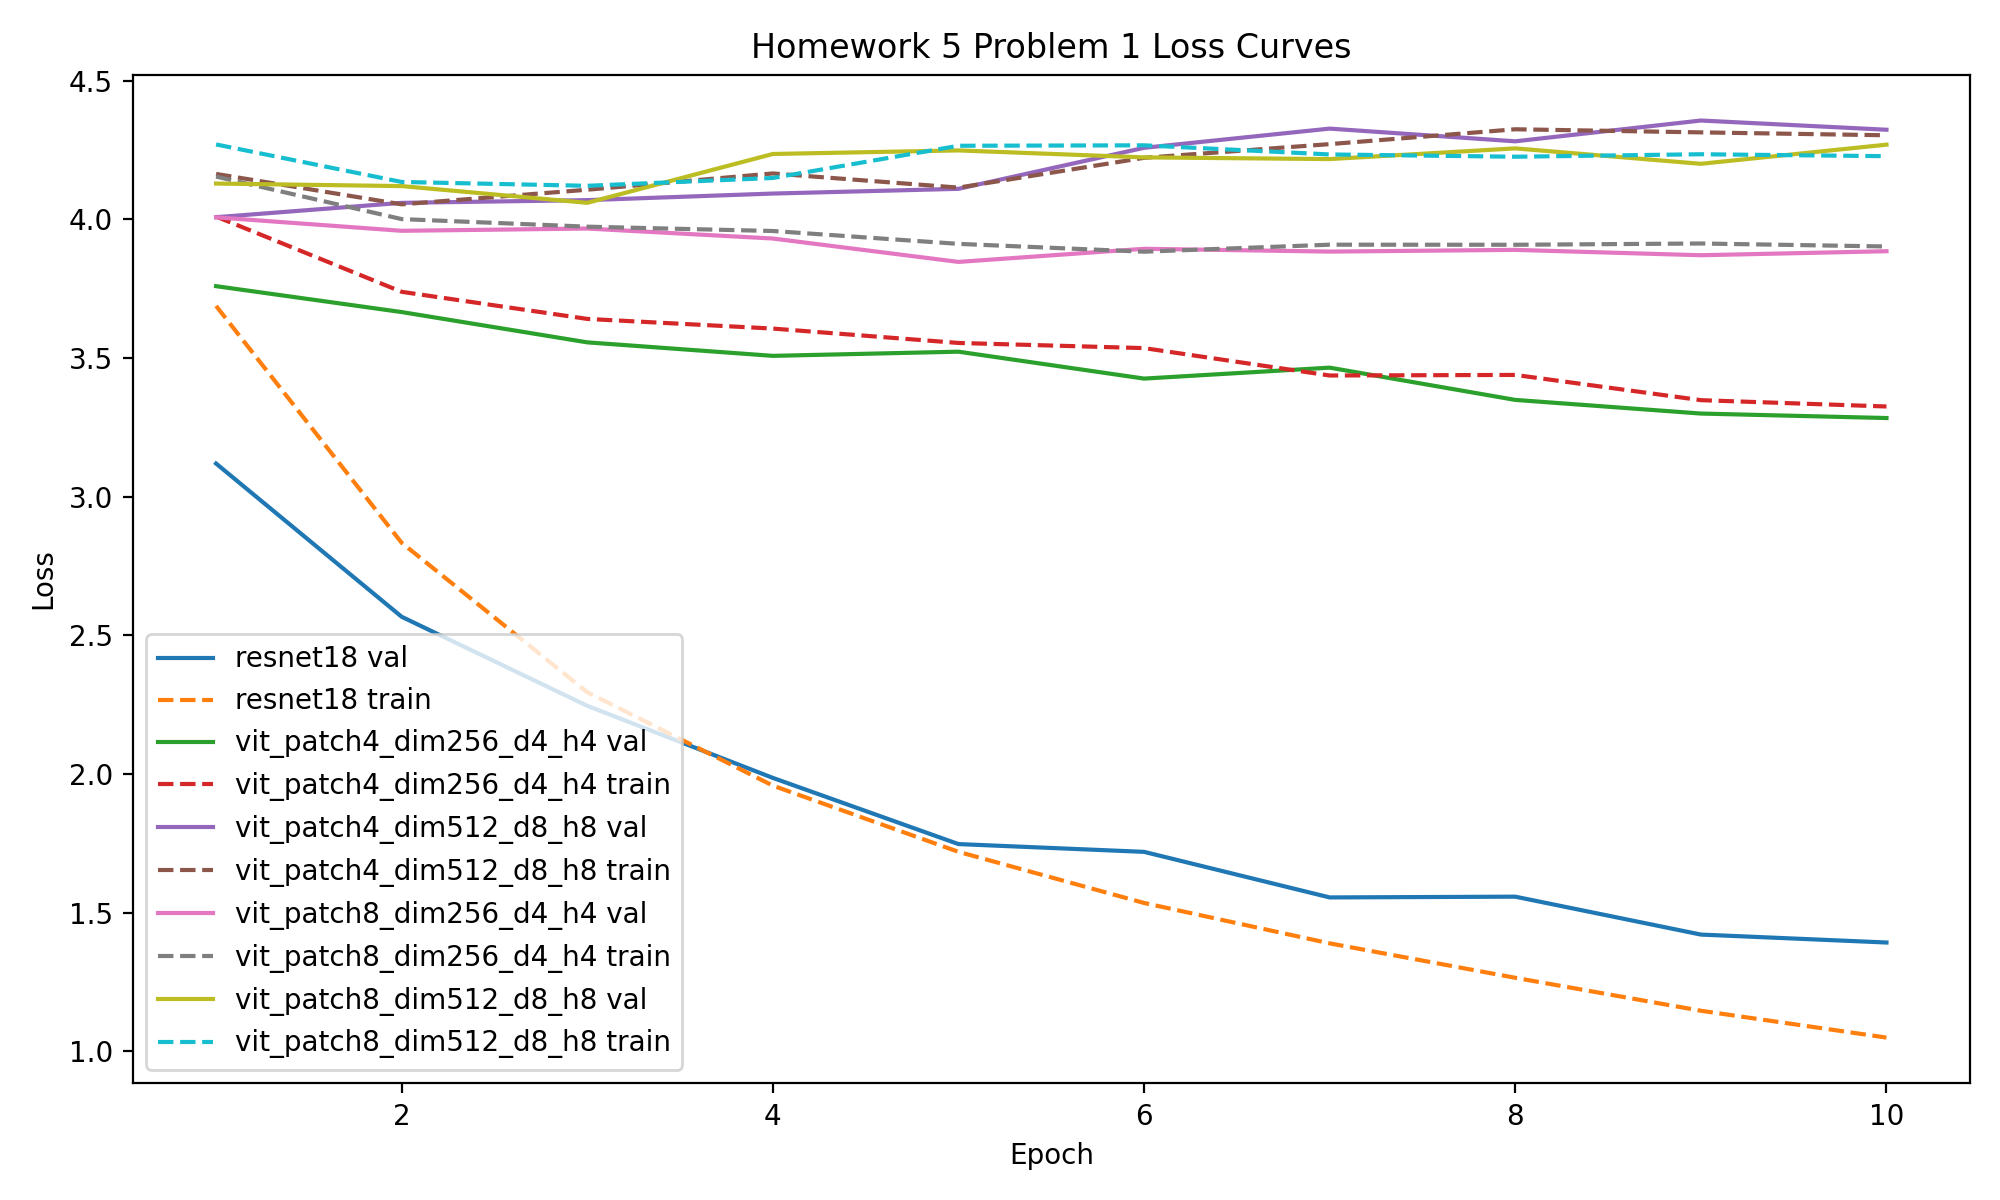
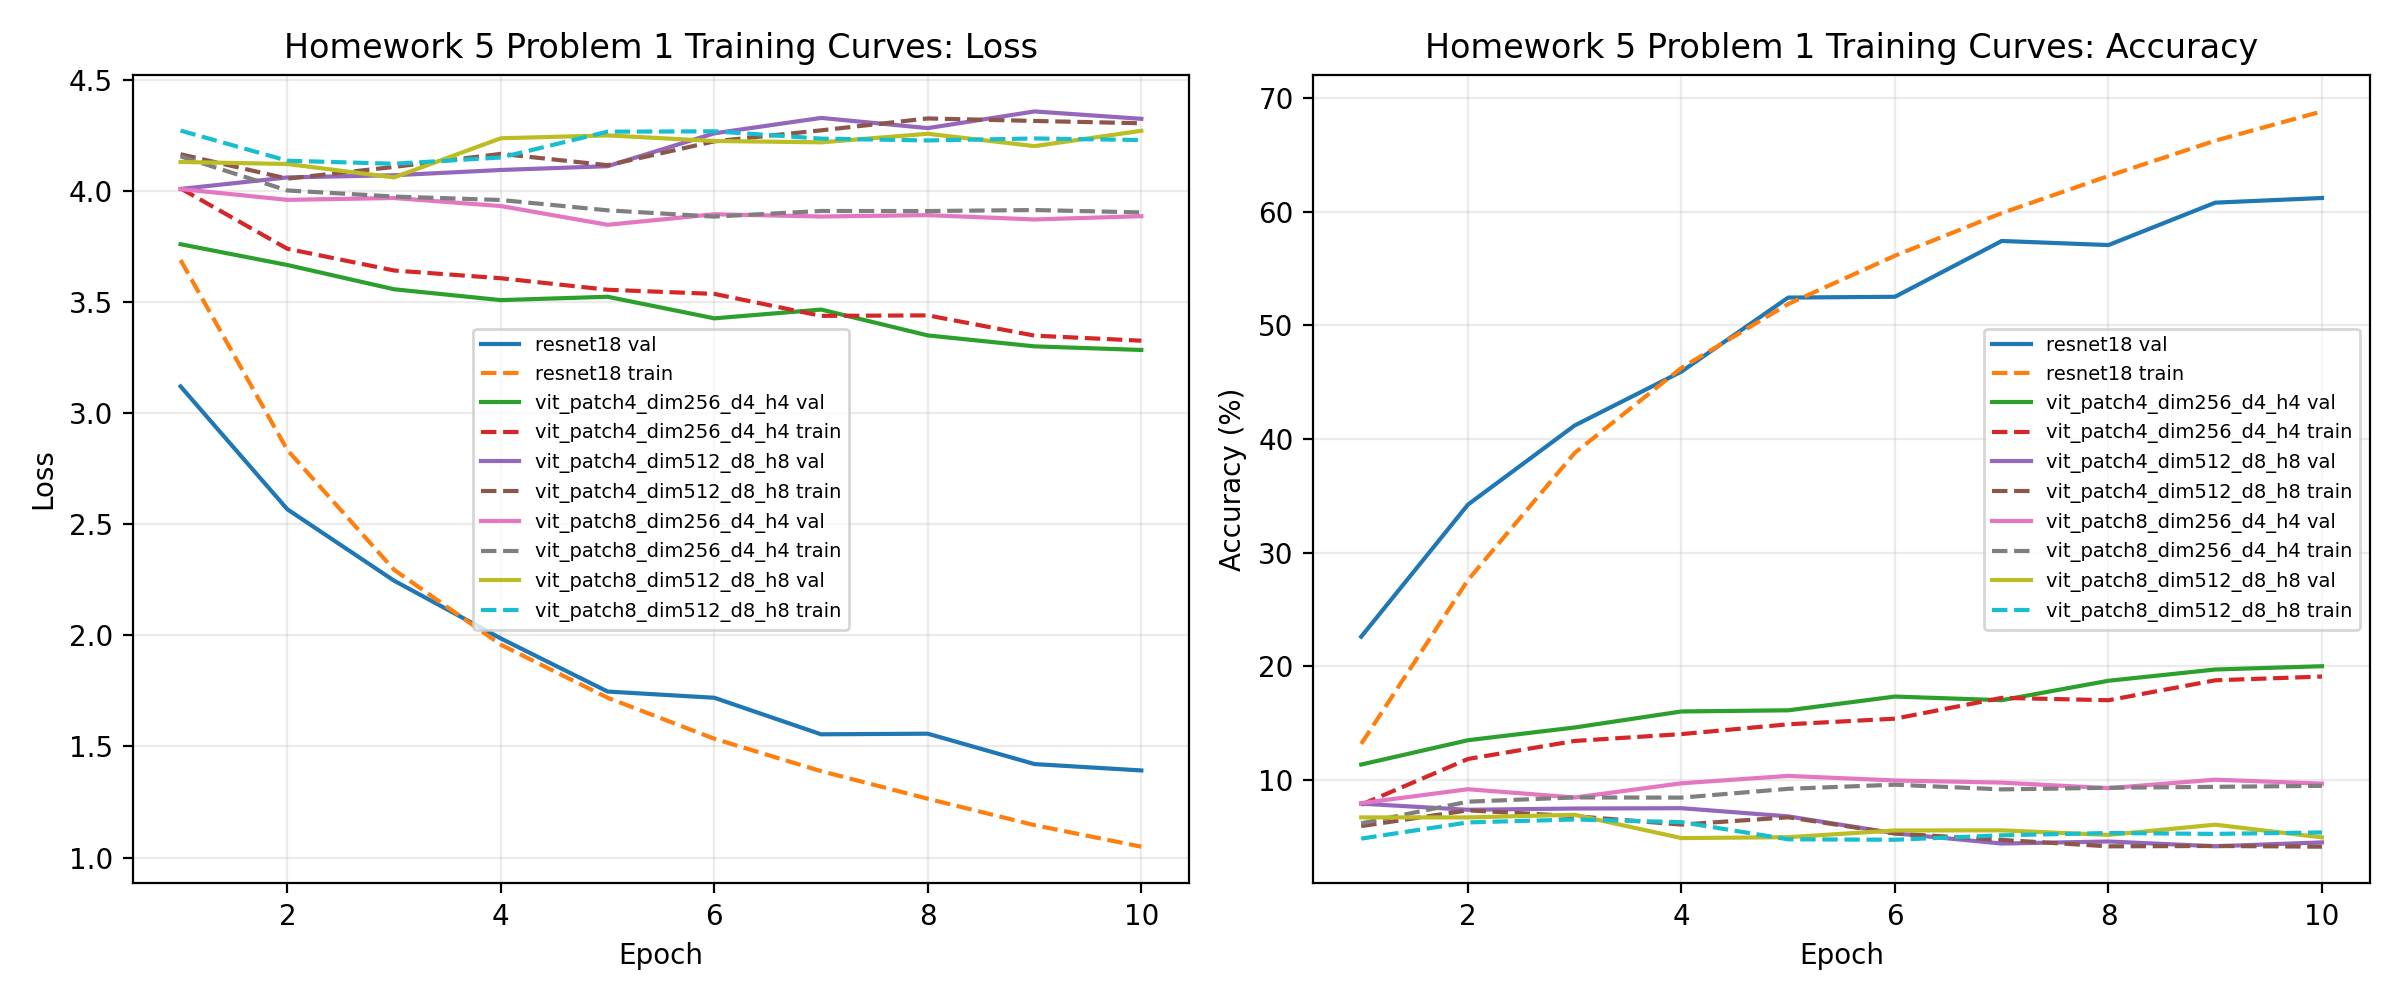
Finalize Homework 5 submission artifacts

diff --git a/report/homework5_report.tex b/report/homework5_report.tex
@@ -25,7 +25,7 @@ Both problems use CIFAR-100 through \texttt{torchvision.datasets.CIFAR100}. Trai
 
 The scripts select CUDA when available and otherwise run on CPU. The completed CSV summaries record CUDA for all Problem 1 runs and all Problem 2 runs. The final Problem 2 experiments were run with approved GPU access on an NVIDIA GeForce RTX 4070. Package versions used in the current environment were: \texttt{torch 2.12.0+cu130}, \texttt{torchvision 0.27.0+cu130}, \texttt{transformers 5.14.1}, \texttt{pandas 2.2.3}, \texttt{numpy 2.2.6}, and \texttt{matplotlib 3.10.9}.
 
-Important status note: Problem 1 has 10-epoch results for all planned rows. Problem 2 has 5-epoch results for all planned rows.
+Important status note: Problem 1 has 10-epoch results for all planned rows. Problem 2 has 5-epoch results for all planned rows. Every submitted summary row contains measured result values.
 
 \section*{Reproducibility and Metric Details}
 CIFAR-100 contains 50,000 training images and 10,000 test images across 100 classes. The scripts train on the official training split and evaluate on the official test split. The CSV column names use \texttt{val\_loss} and \texttt{val\_accuracy\_pct}, but these values are computed on the CIFAR-100 test split because no separate validation split was created for this homework. Randomness is controlled with seed \texttt{4106} for Python and PyTorch.
@@ -45,10 +45,36 @@ python tools/make_hw5_plots.py
 \subsection*{Objective}
 The goal of Problem 1 is to compare several Vision Transformer configurations against a ResNet-18 baseline on CIFAR-100 and discuss accuracy, parameter count, estimated FLOPs, and training time.
 
+\subsection*{Configurations}
+\begin{center}
+\scriptsize
+\begin{tabular}{|p{0.85in}|r|r|r|r|r|r|r|r|}
+\hline
+Model & Patch & Embed & Depth & Heads & MLP & Epochs & Batch & LR \\
+\hline
+ViT-A & 4 & 256 & 4 & 4 & 1024 & 10 & 64 & 0.001 \\
+\hline
+ViT-B & 4 & 512 & 8 & 8 & 2048 & 10 & 64 & 0.001 \\
+\hline
+ViT-C & 8 & 256 & 4 & 4 & 1024 & 10 & 64 & 0.001 \\
+\hline
+ViT-D & 8 & 512 & 8 & 8 & 2048 & 10 & 64 & 0.001 \\
+\hline
+ResNet-18 & -- & -- & -- & -- & -- & 10 & 64 & 0.001 \\
+\hline
+\end{tabular}
+\end{center}
+
 \subsection*{Implementation Summary}
 The custom ViT starts with a convolutional patch embedding layer whose kernel size and stride match the patch size. The flattened patch sequence is prepended with a learned class token, then combined with a learned positional embedding. The encoder is built from \texttt{nn.TransformerEncoderLayer} using GELU activations, multi-head self-attention, feed-forward MLP blocks, dropout, and layer normalization. The classifier uses the final normalized class-token representation and a linear head for 100 CIFAR-100 classes.
 
 The ResNet-18 baseline uses \texttt{torchvision.models.resnet18(weights=None)}. Its first convolution is changed to a 3 by 3 stride-1 convolution and the initial max-pooling layer is removed so the model is better matched to 32 by 32 CIFAR images. All models use cross-entropy loss and Adam optimization. Evaluation runs without gradients on the CIFAR-100 test split and records validation/test loss and top-1 accuracy.
+
+\subsection*{Complexity Calculation Details}
+For each ViT, the number of tokens is $N = (32 / \mathrm{patch\_size})^2 + 1$, where the extra token is the class token. Patch embedding parameters are $(\mathrm{patch\_size}^2 \times 3 \times \mathrm{embed\_dim}) + \mathrm{embed\_dim}$. The learned class token and positional embedding add $\mathrm{embed\_dim} + N \times \mathrm{embed\_dim}$ parameters. Transformer and classifier parameters are counted directly from the PyTorch model.
+
+ViT FLOPs are estimated per forward pass with the transformer approximation
+$\mathrm{FLOPs}_{layer} \approx 4Nd^2 + 2N^2d + 2Ndm$, where $d$ is embedding dimension and $m$ is the MLP hidden dimension. The reported ViT FLOPs multiply that layer cost by the transformer depth and add the classifier head cost $d \times 100$. ResNet-18 FLOPs are estimated by summing convolution and linear multiply-adds from the actual CIFAR-adapted network, using the 3 by 3 stride-1 stem and removed max pool.
 
 \subsection*{Results}
 \begin{center}
@@ -65,7 +91,7 @@ ViT-C & 3,239,268 & 5.41e7 & 12.22 & 3.8851 & 9.68\% & 10 epochs, CUDA \\
 \hline
 ViT-D & 25,379,428 & 4.30e8 & 42.30 & 4.2694 & 4.95\% & 10 epochs, CUDA \\
 \hline
-ResNet-18 & 11,220,132 & 1.10e9 & 61.24 & 1.3919 & 61.20\% & 10 epochs, CUDA \\
+ResNet-18 & 11,220,132 & 5.55e8 & 61.24 & 1.3919 & 61.20\% & 10 epochs, CUDA \\
 \hline
 \end{tabular}
 \end{center}
@@ -73,10 +99,15 @@ ResNet-18 & 11,220,132 & 1.10e9 & 61.24 & 1.3919 & 61.20\% & 10 epochs, CUDA \\
 \subsection*{Analysis}
 Among the ViT models, ViT-A performed best with 20.01\% test accuracy and a final validation loss of 3.2834. ViT-C was the next best ViT at 9.68\% while using the lowest estimated FLOP count. ViT-B and ViT-D were much larger, about 25.3 million trainable parameters each, but performed poorly in this 10-epoch run. The larger transformer settings appear harder to optimize from scratch on CIFAR-100 under this short schedule.
 
-Patch size affected compute directly. With 32 by 32 inputs, patch size 4 creates 64 image tokens plus the class token, while patch size 8 creates 16 image tokens plus the class token. Since transformer attention scales strongly with sequence length, the patch size 8 configurations had much lower estimated FLOPs and lower runtime. The tradeoff is that the lower-token models also had weaker accuracy in this run.
+Patch size affected compute directly. With 32 by 32 inputs, patch size 4 creates 64 image tokens plus the class token, while patch size 8 creates 16 image tokens plus the class token. Since transformer attention scales strongly with sequence length, the patch size 8 configurations had much lower estimated FLOPs and lower runtime. Comparing ViT-A and ViT-C isolates this effect: both use embedding dimension 256, depth 4, and 4 heads, but the 8 by 8 patch model lowers FLOPs from 2.13e8 to 5.41e7 while accuracy drops from 20.01\% to 9.68\%. The larger patch gives faster training but loses fine spatial detail.
 
-The ResNet-18 baseline was strongest overall, reaching 61.20\% test accuracy after 10 epochs. This result is expected on CIFAR-100 because convolutional inductive bias helps ResNet learn local image features efficiently, while a from-scratch ViT generally needs more data, longer schedules, stronger regularization, or pretraining to become competitive.
+Increasing model capacity did not help under the short from-scratch schedule. ViT-B has the same 4 by 4 patch size as ViT-A but increases embedding dimension, depth, heads, and MLP width; parameters rise from 3.21 million to 25.33 million and FLOPs rise from 2.13e8 to 1.67e9, while accuracy falls from 20.01\% to 4.51\%. The same pattern appears between ViT-C and ViT-D. The larger models have enough capacity, but the training curves show they do not optimize well in only 10 epochs with this simple Adam setup.
 
+The ResNet-18 baseline was strongest overall, reaching 61.20\% test accuracy after 10 epochs. It used more parameters and FLOPs than ViT-A and ViT-C, but far less compute than the largest ViT-B run and still produced much higher accuracy. This result is expected on CIFAR-100 because convolutional inductive bias helps ResNet learn local image features efficiently, while a from-scratch ViT generally needs more data, longer schedules, stronger regularization, or pretraining to become competitive.
+
+The training-curve figure verifies model behavior beyond final accuracy. ResNet-18 shows steadily decreasing training and test loss, so its accuracy improvement is backed by a real learning curve. ViT-A and ViT-C also show some loss reduction, but the deeper/wider ViT-B and ViT-D curves remain close to high cross-entropy loss and low accuracy, confirming that their poor final results are training behavior rather than a reporting artifact.
+
+The plot below shows the per-epoch loss and accuracy curves for each Problem 1 run.
 \begin{center}
 \includegraphics[width=0.9\linewidth]{../Results_Problem_1/problem1_loss_curves.png}
 \end{center}
@@ -86,9 +117,12 @@ The ResNet-18 baseline was strongest overall, reaching 61.20\% test accuracy aft
 The goal of Problem 2 is to compare pretrained Swin-Tiny and Swin-Small head-only fine-tuning against a scratch Swin-style model on CIFAR-100.
 
 \subsection*{Implementation Summary}
-The pretrained Swin models are loaded from Hugging Face using the \texttt{SwinForImageClassification} loader. The classifier head is replaced for 100 CIFAR-100 classes with \texttt{ignore\_mismatched\_sizes=True}. For the pretrained experiments, all backbone parameters are frozen and only classifier parameters remain trainable. The script uses Adam, cross-entropy loss, batch size 32, learning rate \texttt{2e-5}, and 224 by 224 resized CIFAR-100 images.
+The pretrained Swin models are loaded from Hugging Face using \texttt{SwinForImageClassification} and its \texttt{from\_pretrained()} method with \url{microsoft/swin-tiny-patch4-window7-224} and \url{microsoft/swin-small-patch4-window7-224}. The classifier head is replaced for 100 CIFAR-100 classes with \texttt{ignore\_mismatched\_sizes=True}. For the pretrained experiments, all backbone parameters are frozen and only classifier parameters remain trainable. The script uses Adam, cross-entropy loss, batch size 32, learning rate \texttt{2e-5}, and 224 by 224 resized CIFAR-100 images.
 
 The scratch model uses \texttt{torchvision.models.swin\_t(weights=None)} with its head replaced for 100 classes. Unlike the pretrained runs, all scratch-model parameters are trainable. The scratch run uses 224 by 224 resized CIFAR-100 inputs, batch size 32, learning rate \texttt{0.001}, and 5 epochs on CUDA.
+
+\subsection*{Model Size Details}
+For the frozen pretrained Swin models, total parameters count the full backbone plus classifier. Trainable parameters count only tensors with \texttt{requires\_grad=True}. The replacement classifier has $768 \times 100 + 100 = 76,900$ trainable parameters for both Swin-Tiny and Swin-Small. The scratch Swin-Tiny-sized model has the same total parameter count as Swin-Tiny, but all parameters are trainable because it is initialized from scratch.
 
 \subsection*{Results}
 \begin{center}
@@ -109,10 +143,13 @@ Scratch Swin & No & No & 27,596,254 & 27,596,254 & 656.55 & 4.6087 & 1.00\% & 5 
 \subsection*{Analysis}
 The completed pretrained runs show a clear transfer-learning advantage after five epochs. Swin-Small reached 68.74\% test accuracy, and Swin-Tiny reached 64.78\%. These accuracies are much higher than the from-scratch transformer results because the Swin backbones already contain useful image features from pretraining.
 
-Swin-Small performed better than Swin-Tiny in the completed artifacts, with lower validation loss and higher accuracy. The trainable parameter count is the same for both pretrained rows because the backbone is frozen and only the classifier head is trained. The total parameter count is higher for Swin-Small, so it has a larger memory footprint even though the optimizer updates the same 76,900 classifier parameters.
+Swin-Small performed better than Swin-Tiny in the completed artifacts, with lower validation loss and higher accuracy. The trainable parameter count is the same for both pretrained rows because the backbone is frozen and only the classifier head is trained. The total parameter count is higher for Swin-Small, so it has a larger memory footprint and higher time per epoch even though the optimizer updates the same 76,900 classifier parameters.
 
 The scratch Swin baseline stayed near chance accuracy, reaching 1.00\% after five CUDA epochs. This is well below both pretrained Swin rows even though the scratch model has the same total parameter count as Swin-Tiny and updates all 27.6 million parameters. The result supports the expected advantage of transfer learning: with a short five-epoch schedule, the randomly initialized Swin model did not learn useful CIFAR-100 features. A stronger from-scratch transformer result would likely require a longer schedule, warmup, tuned learning-rate decay, stronger augmentation, and additional regularization.
 
+The Problem 2 training curves show why the final table differs across models. The pretrained Swin losses decrease each epoch and validation accuracy rises into the 60\% range, which indicates the classifier head is fitting useful frozen features. Scratch Swin remains near cross-entropy loss $\ln(100) \approx 4.605$ and about 1\% accuracy, which is chance performance for 100 classes. This confirms that the scratch model did not train meaningfully in the allotted five epochs.
+
+The plot below shows the per-epoch loss and accuracy curves for each Problem 2 run.
 \begin{center}
 \includegraphics[width=0.9\linewidth]{../Results_Problem_2/problem2_training_curves.png}
 \end{center}

diff --git a/tools/make_hw5_plots.py b/tools/make_hw5_plots.py
@@ -28,24 +28,37 @@ def maybe_plot_history(csv_path: Path, output_name: str, title: str) -> None:
     if df.empty or "epoch" not in df.columns:
         return
 
-    plt.figure(figsize=(10, 6))
+    fig, axes = plt.subplots(1, 2, figsize=(12, 5))
     for model_name, group in df.groupby("model_name"):
         if "val_loss" in group.columns:
-            plt.plot(group["epoch"], group["val_loss"], label=f"{model_name} val")
+            axes[0].plot(group["epoch"], group["val_loss"], label=f"{model_name} val")
         if "train_loss" in group.columns:
-            plt.plot(group["epoch"], group["train_loss"], linestyle="--", label=f"{model_name} train")
-    plt.title(title)
-    plt.xlabel("Epoch")
-    plt.ylabel("Loss")
-    plt.legend()
-    plt.tight_layout()
-    plt.savefig(csv_path.parent / output_name, dpi=200)
-    plt.close()
+            axes[0].plot(group["epoch"], group["train_loss"], linestyle="--", label=f"{model_name} train")
+        if "val_accuracy_pct" in group.columns:
+            axes[1].plot(group["epoch"], group["val_accuracy_pct"], label=f"{model_name} val")
+        if "train_accuracy_pct" in group.columns:
+            axes[1].plot(group["epoch"], group["train_accuracy_pct"], linestyle="--", label=f"{model_name} train")
+
+    axes[0].set_title(f"{title}: Loss")
+    axes[0].set_xlabel("Epoch")
+    axes[0].set_ylabel("Loss")
+    axes[0].legend(fontsize=7)
+    axes[0].grid(alpha=0.25)
+
+    axes[1].set_title(f"{title}: Accuracy")
+    axes[1].set_xlabel("Epoch")
+    axes[1].set_ylabel("Accuracy (%)")
+    axes[1].legend(fontsize=7)
+    axes[1].grid(alpha=0.25)
+
+    fig.tight_layout()
+    fig.savefig(csv_path.parent / output_name, dpi=200)
+    plt.close(fig)
 
 
 def main() -> None:
-    maybe_plot_history(P1 / "problem1_history.csv", "problem1_loss_curves.png", "Homework 5 Problem 1 Loss Curves")
-    maybe_plot_history(P2 / "problem2_history.csv", "problem2_training_curves.png", "Homework 5 Problem 2 Loss Curves")
+    maybe_plot_history(P1 / "problem1_history.csv", "problem1_loss_curves.png", "Homework 5 Problem 1 Training Curves")
+    maybe_plot_history(P2 / "problem2_history.csv", "problem2_training_curves.png", "Homework 5 Problem 2 Training Curves")
 
 
 if __name__ == "__main__":

diff --git a/src/hw5_swin.py b/src/hw5_swin.py
@@ -76,26 +76,6 @@ def count_all_parameters(model: nn.Module) -> int:
     return sum(param.numel() for param in model.parameters())
 
 
-def export_default_templates() -> None:
-    ensure_dirs()
-    rows = [
-        SwinResult("swin_tiny_pretrained", True, True, None, None, None, None, None, None, "template row"),
-        SwinResult("swin_small_pretrained", True, True, None, None, None, None, None, None, "template row"),
-        SwinResult("swin_scratch", False, False, None, None, None, None, None, None, "template row"),
-    ]
-    summary_path = RESULTS_DIR / "problem2_summary.csv"
-    with summary_path.open("w", newline="", encoding="utf-8") as handle:
-        writer = csv.DictWriter(handle, fieldnames=list(asdict(rows[0]).keys()))
-        writer.writeheader()
-        for row in rows:
-            writer.writerow(asdict(row))
-
-    history_path = RESULTS_DIR / "problem2_history.csv"
-    with history_path.open("w", newline="", encoding="utf-8") as handle:
-        writer = csv.writer(handle)
-        writer.writerow(["model_name", "epoch", "train_loss", "val_loss", "train_accuracy_pct", "val_accuracy_pct", "epoch_seconds"])
-
-
 def get_loaders(batch_size: int, image_size: int = 224, num_workers: int = 0) -> tuple[DataLoader, DataLoader]:
     train_transform = transforms.Compose([
         transforms.Resize((image_size, image_size)),
@@ -265,7 +245,6 @@ def build_scratch_model() -> nn.Module:
 
 def parse_args() -> argparse.Namespace:
     parser = argparse.ArgumentParser(description="Homework 5 Problem 2: Swin models")
-    parser.add_argument("--export-templates", action="store_true")
     parser.add_argument("--run-pretrained", type=str, default=None, help="swin_tiny_pretrained or swin_small_pretrained")
     parser.add_argument("--run-scratch", action="store_true")
     parser.add_argument("--epochs", type=int, default=None)
@@ -340,10 +319,6 @@ def main() -> None:
         torch.set_num_threads(min(8, os.cpu_count() or 2))
     set_seed()
     ensure_dirs()
-    if args.export_templates:
-        export_default_templates()
-        print(f"Exported CSV templates to {RESULTS_DIR}")
-        return
     if args.reset_history:
         maybe_reset_history()
 

diff --git a/src/hw5_vit_resnet.py b/src/hw5_vit_resnet.py
@@ -252,7 +252,8 @@ def train_model(model: nn.Module, config: ExperimentConfig, train_loader: DataLo
 
 def estimate_flops(config: ExperimentConfig) -> float | None:
     if config.model_name == "resnet18":
-        return 1.1e9
+        # CIFAR-adapted ResNet-18: 3x3 stride-1 stem and no initial max pool.
+        return 555_468_800.0
     if config.patch_size is None or config.embed_dim is None or config.depth is None or config.heads is None or config.mlp_dim is None:
         return None
     tokens = (IMAGE_SIZE // config.patch_size) ** 2 + 1
@@ -284,22 +285,6 @@ def write_summary(rows: list[ExperimentResult]) -> None:
             writer.writerow(asdict(row))
 
 
-def export_default_templates() -> None:
-    ensure_dirs()
-    summary_rows = [
-        ExperimentResult("vit_patch4_dim256_d4_h4", 4, 256, 4, 4, 1024, None, None, None, None, None, None, "template row"),
-        ExperimentResult("vit_patch4_dim512_d8_h8", 4, 512, 8, 8, 2048, None, None, None, None, None, None, "template row"),
-        ExperimentResult("vit_patch8_dim256_d4_h4", 8, 256, 4, 4, 1024, None, None, None, None, None, None, "template row"),
-        ExperimentResult("vit_patch8_dim512_d8_h8", 8, 512, 8, 8, 2048, None, None, None, None, None, None, "template row"),
-        ExperimentResult("resnet18", None, None, None, None, None, None, None, None, None, None, None, "template row"),
-    ]
-    write_summary(summary_rows)
-    history_path = RESULTS_DIR / "problem1_history.csv"
-    with history_path.open("w", newline="", encoding="utf-8") as handle:
-        writer = csv.writer(handle)
-        writer.writerow(["model_name", "epoch", "train_loss", "val_loss", "train_accuracy_pct", "val_accuracy_pct", "epoch_seconds"])
-
-
 def default_vit_configs() -> list[ExperimentConfig]:
     return [
         ExperimentConfig("vit_patch4_dim256_d4_h4", 4, 256, 4, 4, 1024, 64, 10, 1e-3),
@@ -321,7 +306,6 @@ def build_vit_from_config(config: ExperimentConfig) -> ViTClassifier:
 
 def parse_args() -> argparse.Namespace:
     parser = argparse.ArgumentParser(description="Homework 5 Problem 1: ViT vs ResNet-18")
-    parser.add_argument("--export-templates", action="store_true")
     parser.add_argument("--run-all-vit", action="store_true")
     parser.add_argument("--run-vit", type=str, default=None, help="Specific ViT config name to run")
     parser.add_argument("--run-resnet", action="store_true")
@@ -403,10 +387,6 @@ def main() -> None:
     args = parse_args()
     set_seed()
     ensure_dirs()
-    if args.export_templates:
-        export_default_templates()
-        print(f"Exported templates to {RESULTS_DIR}")
-        return
     if args.reset_history:
         maybe_reset_history()
 

diff --git a/report/homework5_report.md b/report/homework5_report.md
@@ -16,7 +16,7 @@ Both problems use CIFAR-100 through `torchvision.datasets.CIFAR100`. Training im
 
 The scripts select CUDA when available and otherwise run on CPU. The completed CSV summaries record CUDA for all Problem 1 runs and all Problem 2 runs. The final Problem 2 experiments were run with approved GPU access on an NVIDIA GeForce RTX 4070. Package versions used in the current environment were: `torch 2.12.0+cu130`, `torchvision 0.27.0+cu130`, `transformers 5.14.1`, `pandas 2.2.3`, `numpy 2.2.6`, and `matplotlib 3.10.9`.
 
-Important status note: Problem 1 has 10-epoch results for all planned rows. Problem 2 has 5-epoch results for all planned rows.
+Important status note: Problem 1 has 10-epoch results for all planned rows. Problem 2 has 5-epoch results for all planned rows. Every submitted summary row contains measured result values.
 
 ## Reproducibility and Metric Details
 
@@ -54,6 +54,13 @@ The custom ViT starts with a convolutional patch embedding layer whose kernel si
 
 The ResNet-18 baseline uses `torchvision.models.resnet18(weights=None)`. Its first convolution is changed to a 3 by 3 stride-1 convolution and the initial max-pooling layer is removed so the model is better matched to 32 by 32 CIFAR images. All models use cross-entropy loss and Adam optimization. Evaluation runs without gradients on the CIFAR-100 test split and records validation/test loss and top-1 accuracy.
 
+### Complexity Calculation Details
+
+For each ViT, the number of tokens is `N = (32 / patch_size)^2 + 1`, where the extra token is the class token. Patch embedding parameters are `(patch_size^2 * 3 * embed_dim) + embed_dim`. The learned class token and positional embedding add `embed_dim + N * embed_dim` parameters. Transformer and classifier parameters are counted directly from the PyTorch model.
+
+ViT FLOPs are estimated per forward pass with the transformer approximation
+`FLOPs_layer ~= 4 N d^2 + 2 N^2 d + 2 N d m`, where `d` is embedding dimension and `m` is the MLP hidden dimension. The reported ViT FLOPs multiply that layer cost by the transformer depth and add the classifier head cost `d * 100`. ResNet-18 FLOPs are estimated by summing convolution and linear multiply-adds from the actual CIFAR-adapted network, using the 3 by 3 stride-1 stem and removed max pool.
+
 ### Results Table
 
 | Model | Params | FLOPs / Forward | Train Time / Epoch (s) | Final Val Loss | Test Accuracy (%) | Status |
@@ -62,17 +69,21 @@ The ResNet-18 baseline uses `torchvision.models.resnet18(weights=None)`. Its fir
 | ViT-B | 25,330,276 | 1.67e9 | 106.72 | 4.3232 | 4.51 | 10 epochs, CUDA |
 | ViT-C | 3,239,268 | 5.41e7 | 12.22 | 3.8851 | 9.68 | 10 epochs, CUDA |
 | ViT-D | 25,379,428 | 4.30e8 | 42.30 | 4.2694 | 4.95 | 10 epochs, CUDA |
-| ResNet-18 | 11,220,132 | 1.10e9 | 61.24 | 1.3919 | 61.20 | 10 epochs, CUDA |
+| ResNet-18 | 11,220,132 | 5.55e8 | 61.24 | 1.3919 | 61.20 | 10 epochs, CUDA |
 
 ### Analysis
 
 Among the ViT models, ViT-A performed best with 20.01 percent test accuracy and a final validation loss of 3.2834. ViT-C was the next best ViT at 9.68 percent while using the lowest estimated FLOP count. ViT-B and ViT-D were much larger, about 25.3 million trainable parameters each, but performed poorly in this 10-epoch run. The larger transformer settings appear harder to optimize from scratch on CIFAR-100 under this short schedule.
 
-Patch size affected compute directly. With 32 by 32 inputs, patch size 4 creates 64 image tokens plus the class token, while patch size 8 creates 16 image tokens plus the class token. Since transformer attention scales strongly with sequence length, the patch size 8 configurations had much lower estimated FLOPs and lower runtime. The tradeoff is that the lower-token models also had weaker accuracy in this run.
+Patch size affected compute directly. With 32 by 32 inputs, patch size 4 creates 64 image tokens plus the class token, while patch size 8 creates 16 image tokens plus the class token. Since transformer attention scales strongly with sequence length, the patch size 8 configurations had much lower estimated FLOPs and lower runtime. Comparing ViT-A and ViT-C isolates this effect: both use embedding dimension 256, depth 4, and 4 heads, but the 8 by 8 patch model lowers FLOPs from 2.13e8 to 5.41e7 while accuracy drops from 20.01 percent to 9.68 percent. The larger patch gives faster training but loses fine spatial detail.
 
-The ResNet-18 baseline was strongest overall, reaching 61.20 percent test accuracy after 10 epochs. This result is expected on CIFAR-100 because convolutional inductive bias helps ResNet learn local image features efficiently, while a from-scratch ViT generally needs more data, longer schedules, stronger regularization, or pretraining to become competitive.
+Increasing model capacity did not help under the short from-scratch schedule. ViT-B has the same 4 by 4 patch size as ViT-A but increases embedding dimension, depth, heads, and MLP width; parameters rise from 3.21 million to 25.33 million and FLOPs rise from 2.13e8 to 1.67e9, while accuracy falls from 20.01 percent to 4.51 percent. The same pattern appears between ViT-C and ViT-D. The larger models have enough capacity, but the training curves show they do not optimize well in only 10 epochs with this simple Adam setup.
 
-Exported figure: `Results_Problem_1/problem1_loss_curves.png`.
+The ResNet-18 baseline was strongest overall, reaching 61.20 percent test accuracy after 10 epochs. It used more parameters and FLOPs than ViT-A and ViT-C, but far less compute than the largest ViT-B run and still produced much higher accuracy. This result is expected on CIFAR-100 because convolutional inductive bias helps ResNet learn local image features efficiently, while a from-scratch ViT generally needs more data, longer schedules, stronger regularization, or pretraining to become competitive.
+
+The training-curve figure verifies model behavior beyond final accuracy. ResNet-18 shows steadily decreasing training and test loss, so its accuracy improvement is backed by a real learning curve. ViT-A and ViT-C also show some loss reduction, but the deeper/wider ViT-B and ViT-D curves remain close to high cross-entropy loss and low accuracy, confirming that their poor final results are training behavior rather than a reporting artifact.
+
+Exported figure: `Results_Problem_1/problem1_loss_curves.png` contains per-epoch loss and accuracy curves.
 
 ## Problem 2: Fine-Tuning Pretrained Swin Transformers vs. Training from Scratch
 
@@ -82,9 +93,13 @@ The goal of Problem 2 is to compare pretrained Swin-Tiny and Swin-Small head-onl
 
 ### Implementation Summary
 
-The pretrained Swin models are loaded from Hugging Face using `SwinForImageClassification.from_pretrained`. The classifier head is replaced for 100 CIFAR-100 classes with `ignore_mismatched_sizes=True`. For the pretrained experiments, all backbone parameters are frozen and only classifier parameters remain trainable. The script uses Adam, cross-entropy loss, batch size 32, learning rate `2e-5`, and 224 by 224 resized CIFAR-100 images.
+The pretrained Swin models are loaded from Hugging Face using `SwinForImageClassification.from_pretrained()` with `microsoft/swin-tiny-patch4-window7-224` and `microsoft/swin-small-patch4-window7-224`. The classifier head is replaced for 100 CIFAR-100 classes with `ignore_mismatched_sizes=True`. For the pretrained experiments, all backbone parameters are frozen and only classifier parameters remain trainable. The script uses Adam, cross-entropy loss, batch size 32, learning rate `2e-5`, and 224 by 224 resized CIFAR-100 images.
 
 The scratch model uses `torchvision.models.swin_t(weights=None)` with its head replaced for 100 classes. Unlike the pretrained runs, all scratch-model parameters are trainable. The scratch run uses 224 by 224 resized CIFAR-100 inputs, batch size 32, learning rate `0.001`, and 5 epochs on CUDA.
+
+### Model Size Details
+
+For the frozen pretrained Swin models, total parameters count the full backbone plus classifier. Trainable parameters count only tensors with `requires_grad=True`. The replacement classifier has `768 * 100 + 100 = 76,900` trainable parameters for both Swin-Tiny and Swin-Small. The scratch Swin-Tiny-sized model has the same total parameter count as Swin-Tiny, but all parameters are trainable because it is initialized from scratch.
 
 ### Results Table
 
@@ -98,11 +113,13 @@ The scratch model uses `torchvision.models.swin_t(weights=None)` with its head r
 
 The completed pretrained runs show a clear transfer-learning advantage after five epochs. Swin-Small reached 68.74 percent test accuracy, and Swin-Tiny reached 64.78 percent. These accuracies are much higher than the from-scratch transformer results because the Swin backbones already contain useful image features from pretraining.
 
-Swin-Small performed better than Swin-Tiny in the completed artifacts, with lower validation loss and higher accuracy. The trainable parameter count is the same for both pretrained rows because the backbone is frozen and only the classifier head is trained. The total parameter count is higher for Swin-Small, so it has a larger memory footprint even though the optimizer updates the same 76,900 classifier parameters.
+Swin-Small performed better than Swin-Tiny in the completed artifacts, with lower validation loss and higher accuracy. The trainable parameter count is the same for both pretrained rows because the backbone is frozen and only the classifier head is trained. The total parameter count is higher for Swin-Small, so it has a larger memory footprint and higher time per epoch even though the optimizer updates the same 76,900 classifier parameters.
 
 The scratch Swin baseline stayed near chance accuracy, reaching 1.00 percent after five CUDA epochs. This is well below both pretrained Swin rows even though the scratch model has the same total parameter count as Swin-Tiny and updates all 27.6 million parameters. The result supports the expected advantage of transfer learning: with a short five-epoch schedule, the randomly initialized Swin model did not learn useful CIFAR-100 features. A stronger from-scratch transformer result would likely require a longer schedule, warmup, tuned learning-rate decay, stronger augmentation, and additional regularization.
 
-Exported figure: `Results_Problem_2/problem2_training_curves.png`.
+The Problem 2 training curves show why the final table differs across models. The pretrained Swin losses decrease each epoch and validation accuracy rises into the 60 percent range, which indicates the classifier head is fitting useful frozen features. Scratch Swin remains near cross-entropy loss `ln(100) ~= 4.605` and about 1 percent accuracy, which is chance performance for 100 classes. This confirms that the scratch model did not train meaningfully in the allotted five epochs.
+
+Exported figure: `Results_Problem_2/problem2_training_curves.png` contains per-epoch loss and accuracy curves.
 
 ## Conclusion
 

diff --git a/README.md b/README.md
@@ -8,25 +8,29 @@ Repository link for the report: <https://github.com/gfeliu-rgb/ECGR-4106-HW5>
 
 - `src/hw5_vit_resnet.py`: Problem 1 implementation for ViT configurations and the ResNet-18 baseline.
 - `src/hw5_swin.py`: Problem 2 implementation for pretrained and scratch Swin experiments.
-- `tools/make_hw5_plots.py`: helper script for generating loss-curve figures from exported CSVs.
+- `tools/make_hw5_plots.py`: helper script for generating loss and accuracy figures from completed CSVs.
 - `Homework5_Problem1_ViT_vs_ResNet18.ipynb`: notebook for viewing Problem 1 metrics and plots.
 - `Homework5_Problem2_Swin_Finetuning.ipynb`: notebook for viewing Problem 2 metrics and plots.
-- `Results_Problem_1/`: Problem 1 CSV templates and output artifacts.
-- `Results_Problem_2/`: Problem 2 CSV templates and output artifacts.
+- `Results_Problem_1/`: completed Problem 1 CSV result artifacts and plots.
+- `Results_Problem_2/`: completed Problem 2 CSV result artifacts and plots.
 - `report/homework5_report.md`: report source covering every required section.
+- `report/homework5_report.pdf`: completed PDF report for Canvas submission.
 - `SUBMISSION_CHECKLIST.md`: final packaging checklist before Canvas submission.
 
-## Reproduce Templates
+## Reproduce Final Artifacts
 
 ```bash
-python src/hw5_vit_resnet.py --export-templates
-python src/hw5_swin.py --export-templates
+python src/hw5_vit_resnet.py --run-all-vit --run-resnet
+python src/hw5_swin.py --run-pretrained swin_tiny_pretrained
+python src/hw5_swin.py --run-pretrained swin_small_pretrained
+python src/hw5_swin.py --run-scratch --epochs 5 --batch-size 32 --image-size 224
 python tools/make_hw5_plots.py
 ```
 
 ## Notes
 
 - The structure is aligned with the course `Homework_5` repository layout.
-- Only reusable scaffold elements were mirrored here. No third-party homework solutions were copied.
+- This repository contains the completed Homework 5 source, notebooks, result CSVs, generated plots, and PDF report.
+- Both Jupyter notebooks are executed in place with visible tables, figures, and markdown interpretation.
 - Problem 1 includes completed 10-epoch results for all planned models.
 - Problem 2 includes completed 5-epoch CUDA results for pretrained Swin-Tiny, pretrained Swin-Small, and scratch Swin.